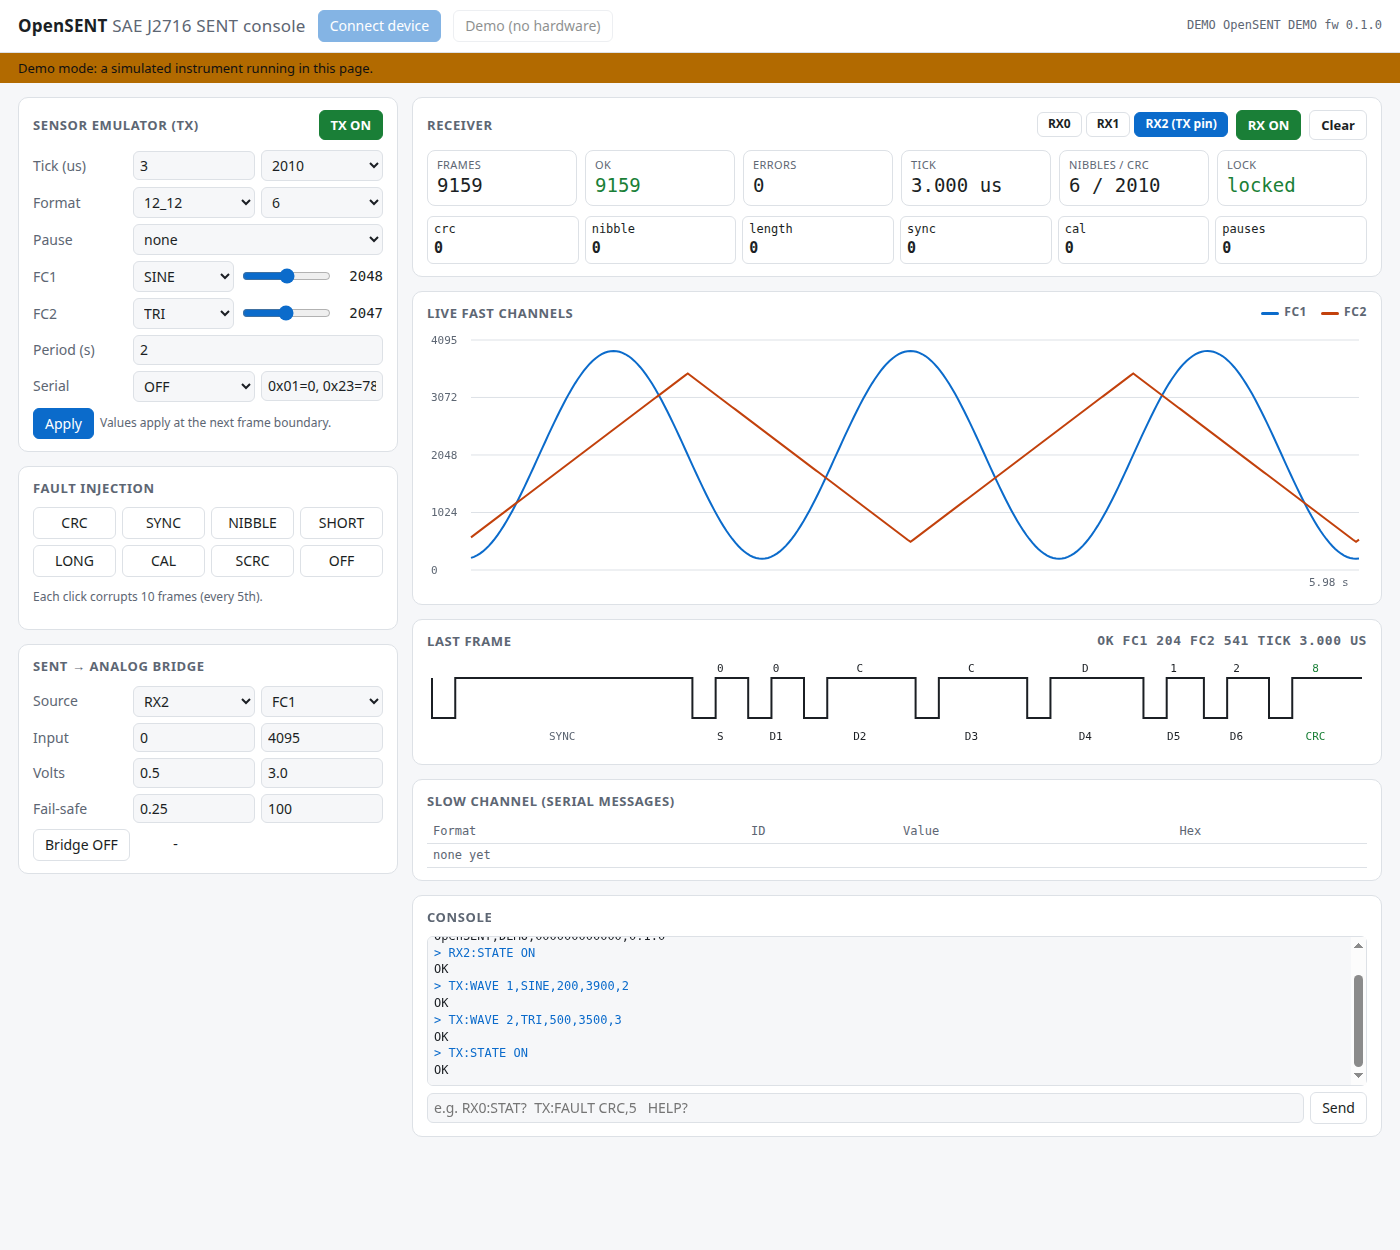
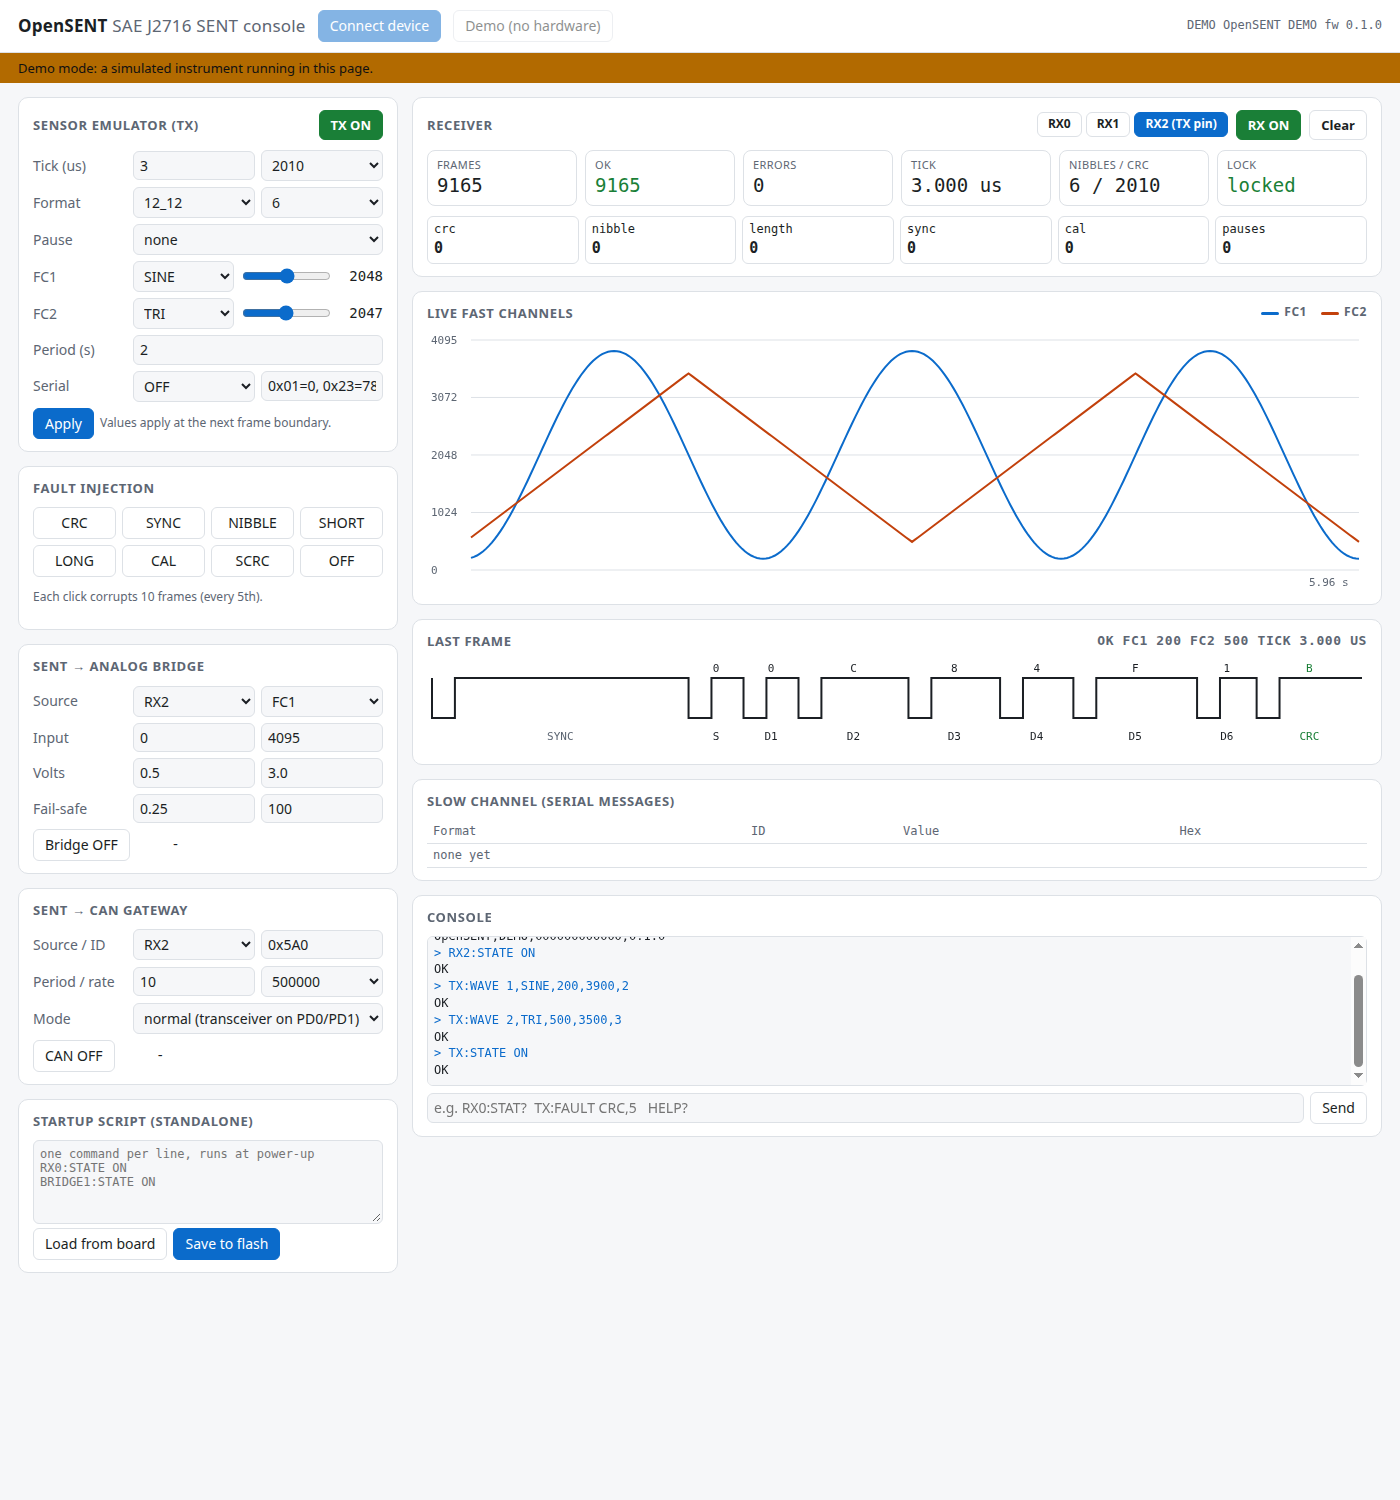
LICENSE, CHANGELOG, web console: CAN gateway and startup script panels

diff --git a/web/index.html b/web/index.html
@@ -99,6 +99,18 @@ th { color: var(--muted); font-weight: 500; }
       <label>Fail-safe<div class="row"><input id="bfail" type="number" step="0.05" value="0.25" title="volts"><input id="bto" type="number" value="100" title="timeout ms"></div></label>
       <div class="row"><button id="bon">Bridge OFF</button><span class="val" id="bout">-</span></div>
     </section>
+    <section>
+      <h2>SENT &rarr; CAN gateway</h2>
+      <label>Source / ID<div class="row"><select id="cch"><option value="0">RX0</option><option value="1">RX1</option><option value="2" selected>RX2</option></select><input id="cid" value="0x5A0"></div></label>
+      <label>Period / rate<div class="row"><input id="cper" type="number" value="10" title="ms"><select id="cbr"><option>500000</option><option>250000</option><option>1000000</option><option>125000</option></select></div></label>
+      <label>Mode<select id="cmode"><option value="NORMAL">normal (transceiver on PD0/PD1)</option><option value="LOOPBACK">internal loopback</option></select></label>
+      <div class="row"><button id="con">CAN OFF</button><span class="val" id="cstat">-</span></div>
+    </section>
+    <section>
+      <h2>Startup script (standalone)</h2>
+      <textarea id="script" rows="5" style="width:100%;font:12px var(--mono);background:var(--bg);color:var(--ink);border:1px solid var(--line);border-radius:6px;padding:6px" placeholder="one command per line, runs at power-up&#10;RX0:STATE ON&#10;BRIDGE1:STATE ON"></textarea>
+      <div class="row"><button id="sload">Load from board</button><button id="ssave" class="primary">Save to flash</button><span class="hint" id="sinfo"></span></div>
+    </section>
   </div>
   <div class="col">
     <section>
@@ -249,6 +261,12 @@ class DemoTransport {
       else if (/^BRIDGE1:FAIL$/.test(h)) { const p = a.split(","); this.bridge.fail = +p[0]; }
       else if (/^BRIDGE1:STATE$/.test(h)) { this.bridge.en = a.toUpperCase() === "ON"; if (!this.bridge.en) this.bridge.out = 0; }
       else if (/^BRIDGE1:OUT\?$/.test(h)) r = `${this.bridge.out.toFixed(4)},${this.bridge.en ? this.bridge.state || "FAIL" : "OFF"},${this.bridge.out.toFixed(4)}`;
+      else if (h.startsWith("CAN:")) { if (h === "CAN:STAT?") { this.canTx = (this.canTx || 0) + 50; r = `on=1 mode=LOOPBACK bitrate=500000 tx=${this.canTx} tx_drop=0 rx=${this.canTx} tec=0 rec=0 lec=0 bus_off=0`; } }
+      else if (h === "CFG:ADD") { (this.script = this.script || []).push(a); }
+      else if (h === "CFG:CLR") this.script = [];
+      else if (h === "CFG:LIST?") r = this.script && this.script.length ? this.script.join(" | ") : "EMPTY";
+      else if (h === "CFG:INFO?") r = `store=DEMO lines=${(this.script || []).length} boot=none`;
+      else if (h.startsWith("CFG:")) r = "OK";
       else r = 'ERR -113,"Undefined header"';
       out.push(r);
       if (r.startsWith("ERR")) break;
@@ -367,6 +385,7 @@ async function poll() {
   const slow = await query(`RX${chan}:SLOW?`, true);
   $("slowtab").innerHTML = slow === "NONE" || slow.startsWith("ERR") ? '<tr><td colspan="4" class="hint">none yet</td></tr>' :
     slow.split(",").map((it) => { const [fmt, rest] = it.split(":"); const [id, v] = rest.split("="); return `<tr><td>${fmt}</td><td>0x${(+id).toString(16).toUpperCase().padStart(2, "0")}</td><td>${v}</td><td>0x${(+v).toString(16).toUpperCase()}</td></tr>`; }).join("");
+  if (canOn) { const c = kv(await query("CAN:STAT?", true)); $("cstat").textContent = `tx ${c.tx} rx ${c.rx} drop ${c.tx_drop} tec ${c.tec}`; }
   if (bridgeOn) { const o = (await query("BRIDGE1:OUT?", true)).split(","); $("bout").textContent = `${(+o[0]).toFixed(3)} V ${o[1]}` + (o[2] >= 0 ? `  (meas ${(+o[2]).toFixed(3)} V)` : ""); }
 }
 
@@ -381,6 +400,32 @@ $("bon").onclick = async () => {
   }
   await query("BRIDGE1:STATE " + (bridgeOn ? "ON" : "OFF"));
   $("bon").textContent = bridgeOn ? "Bridge ON" : "Bridge OFF"; $("bon").className = bridgeOn ? "on" : "";
+};
+
+/* ------------------------------------------------------------ CAN + script */
+let canOn = false;
+$("con").onclick = async () => {
+  canOn = !canOn;
+  if (canOn) {
+    await query(`RX${$("cch").value}:STATE ON`);
+    await query(`CAN:MODE ${$("cmode").value}`); await query(`CAN:BITRATE ${$("cbr").value}`);
+    await query(`CAN:MAP RX${$("cch").value},${$("cid").value},${$("cper").value}`);
+  }
+  const r = await query("CAN:STATE " + (canOn ? "ON" : "OFF"));
+  if (r.startsWith("ERR")) canOn = false;
+  $("con").textContent = canOn ? "CAN ON" : "CAN OFF"; $("con").className = canOn ? "on" : "";
+};
+$("sload").onclick = async () => {
+  await query("CFG:LOAD"); const l = await query("CFG:LIST?");
+  $("script").value = l === "EMPTY" || l.startsWith("ERR") ? "" : l.split(" | ").join("\n");
+  $("sinfo").textContent = await query("CFG:INFO?", true);
+};
+$("ssave").onclick = async () => {
+  await query("CFG:CLR");
+  for (const line of $("script").value.split("\n").map((x) => x.trim()).filter(Boolean)) {
+    const r = await query("CFG:ADD " + line); if (r.startsWith("ERR")) { $("sinfo").textContent = "rejected: " + line; return; }
+  }
+  const r = await query("CFG:SAVE"); $("sinfo").textContent = r.startsWith("ERR") ? r : "saved - " + await query("CFG:INFO?", true);
 };
 
 /* ------------------------------------------------------------ console */

diff --git a/CHANGELOG.md b/CHANGELOG.md
@@ -1,0 +1,13 @@
+# Changelog
+
+## 0.1.0 (2026-11-27)
+
+First release. Everything below was verified on a WeAct STM32H750VBT6 by `opensent selftest` (43/43, no external wiring) and on real sensor captures.
+
+- **Sensor emulator:** tick 0.5–100 µs; 1–8 nibbles; CRC 2010 / legacy / status; pauses (fixed and constant frame length); short and enhanced serial messages; waveforms; seven fault types.
+- **Receivers:** 2 input-capture channels plus a TX-pin monitor, 5 ns resolution, glitch filter, nibble-count and CRC-variant learning, J2716 successive-calibration check, statistics.
+- **Raw two-edge capture** to VCD/CSV, and a **sigrok/PulseView SENT decoder**.
+- **SENT → analog bridge** with fail-safe and on-chip read-back (ADC2).
+- **SENT → CAN gateway** (FDCAN1) with a valid flag, error count, counter and data age.
+- **Standalone startup script** in the on-board QSPI flash; 0.5 s hardware watchdog.
+- **PC tools:** Python codec (frame-identical to the C core), CLI, HTML sensor health report, Web Serial console with an in-page demo, host simulator.
